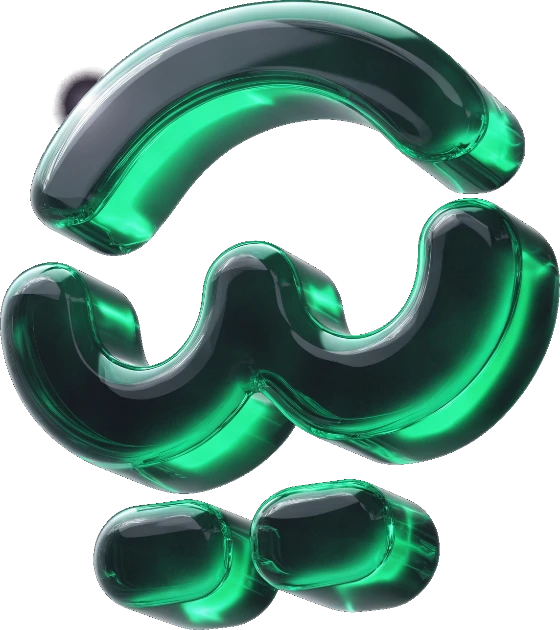
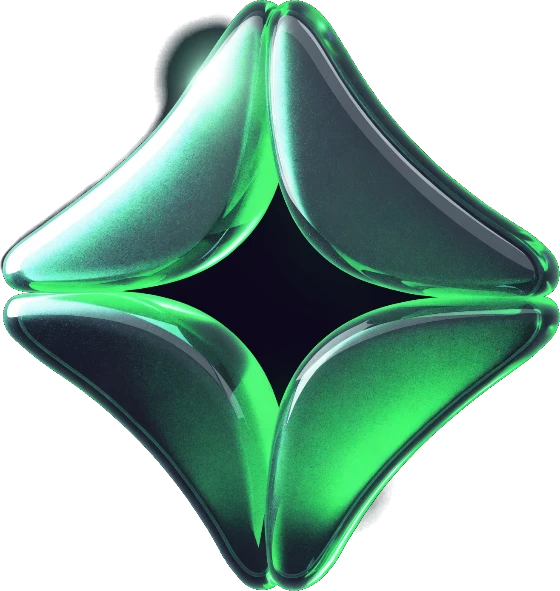
Icone de vendas com a forma do Pix, selo fora e o celular no lugar
O CARRINHO SAIU. No lugar entra a forma que o cliente reconhece como pagamento
instantaneo: o losango de quatro petalas, renderizado em vidro esmeralda como
os outros. E a mesma geometria do icone de Pix que o app ja usa nos atalhos da
dashboard, agora em 3D — quem olha o banner e o atalho ve a mesma coisa.

O SELO DA NUVEMSHOP saiu do banner de Integracoes, como pedido.

E DOIS PROBLEMAS DO CELULAR, medidos antes de mexer:

A PECA OCUPAVA METADE DO CARTAO. Em 375px o cartao tem 319 de largura e a peca
estava com 144 a 168 — de 45% a 53%. Num banner a arte e tempero: o assunto e o
texto e o botao. Metade da largura faz o objeto virar o assunto, e era isso que
estava estranho. Em 118px de altura ela ocupa 35% a 42% e acompanha o texto em
vez de disputar com ele.

UMA DELAS NASCIA SEM LARGURA. As pecas sao lazy e dimensionadas por altura com
largura automatica: enquanto a imagem nao chega, o navegador nao sabe a
largura. Medi a de Tracking em 21x149 no instante da troca — ela nascia fina e
pulava para o tamanho certo ao carregar. Agora cada arte declara largura e
altura reais no HTML e o espaco e reservado desde o primeiro quadro. E a mesma
regra de sempre para imagem; aqui aparecia em movimento porque o carrossel
troca de slide.

De passagem, a frase mais longa dos cinco estourava o cartao: banner nao e
lugar de paragrafo, e se nao cabe em tres linhas esta comprida demais.

diff --git a/public/app/app.js b/public/app/app.js
@@ -3061,31 +3061,33 @@ function periodoIntervalo() {
 const BANNERS = [
   {
     tag: 'Integrações', fundo: 'integracoes',
-    peca: 'balao', selo: '/assets/logos/nuvemshop.webp',
+    peca: 'balao', pw: 640, ph: 644,
     titulo: 'Tudo o que você já usa, conversando',
-    texto: 'Nuvemshop, Meta Ads e webhooks: o que acontece nas suas ferramentas vira mensagem no WhatsApp.',
+    // A frase mais longa dos cinco estourava o cartao no celular. Banner nao
+    // e lugar de paragrafo: se nao cabe em tres linhas, esta comprida demais.
+    texto: 'Nuvemshop, Meta Ads e webhooks viram mensagem no WhatsApp, sem você fazer nada.',
     acao: 'Ver integrações', href: '#/integrations'
   },
   {
-    tag: 'Ligação', fundo: 'ligacao', peca: 'ic-ligacao',
+    tag: 'Ligação', fundo: 'ligacao', peca: 'ic-ligacao', pw: 560, ph: 677,
     titulo: 'Ligue de dentro da conversa',
     texto: 'Chamada de voz pelo WhatsApp sem sair do atendimento, com o histórico no mesmo lugar.',
     acao: 'Abrir Conversas', href: '#/inbox'
   },
   {
-    tag: 'Indique e ganhe', fundo: 'indique', peca: 'ic-indique',
+    tag: 'Indique e ganhe', fundo: 'indique', peca: 'ic-indique', pw: 560, ph: 594,
     titulo: 'Indique a Koonfy e receba',
     texto: 'Comissão automática em toda assinatura de quem você indicar. O link é seu e o saldo cai na carteira.',
     acao: 'Ver meu link', href: '#/afiliacao'
   },
   {
-    tag: 'Vender com a Koonfy', fundo: 'vender', peca: 'ic-vender',
+    tag: 'Vender com a Koonfy', fundo: 'vender', peca: 'ic-vender', pw: 560, ph: 591,
     titulo: 'Venda dentro do WhatsApp',
     texto: 'Cobrança por Pix e cartão no chat, checkout próprio e o dinheiro na sua conta.',
     acao: 'Ver Pagamentos', href: '#/elitepay'
   },
   {
-    tag: 'Tracking', fundo: 'tracking', peca: 'ic-tracking',
+    tag: 'Tracking', fundo: 'tracking', peca: 'ic-tracking', pw: 560, ph: 588,
     titulo: 'Saiba de onde vem cada venda',
     texto: 'Links rastreáveis e pixels: a campanha que traz cliente aparece no relatório, com nome e número.',
     acao: 'Abrir Tracking', href: '#/tracking'
@@ -3106,9 +3108,11 @@ function bannersHtml() {
                    ${i ? 'loading="lazy"' : ''} decoding="async">
               <span class="bnr-veu"></span>
             </div>
+            <!-- Largura e altura reais: sem elas, uma peça ainda não
+                 carregada nasce sem largura e pula ao chegar. -->
             <img class="bnr-3d" src="/assets/banner-${b.peca}.webp" alt="" aria-hidden="true"
+                 width="${b.pw}" height="${b.ph}"
                  ${i ? 'loading="lazy"' : ''} decoding="async">
-            ${b.selo ? `<img class="bnr-selo" src="${b.selo}" alt="" aria-hidden="true" loading="lazy" decoding="async">` : ''}
             <div class="bnr-txt">
               <span class="bnr-tag">${esc(b.tag)}</span>
               <h3>${esc(b.titulo)}</h3>

diff --git a/public/app/style.css b/public/app/style.css
@@ -4950,15 +4950,6 @@ body.has-tabbar .ckb { height: calc(100dvh - var(--topbar-h) - var(--tabbar-h));
   50% { translate: 0 -9px; }
 }
 
-/* SELO DA MARCA PARCEIRA (a logo da Nuvemshop, por exemplo). Fica pequeno e
-   no canto: é uma menção, não o assunto do banner. */
-.bnr-selo {
-  position: absolute; z-index: 4; right: 6%; bottom: 10px; width: 46px; height: 46px;
-  border-radius: 12px; box-shadow: 0 10px 22px rgba(0,0,0,.4);
-  background: #fff; padding: 6px;
-}
-@media (max-width: 620px) { .bnr-selo { width: 36px; height: 36px; right: 4%; bottom: 6px; } }
-
 .bnr-pontos { display: flex; gap: 7px; justify-content: center; margin-top: 12px; }
 .bnr-pontos button {
   width: 7px; height: 7px; padding: 0; border: 0; border-radius: 50%;
@@ -4991,18 +4982,20 @@ body.has-tabbar .ckb { height: calc(100dvh - var(--topbar-h) - var(--tabbar-h));
   /* Mais alto no celular: com a largura do texto reduzida para nao bater na
      peca, a mesma frase ocupa quatro linhas em vez de duas — e o cartao
      precisa caber o texto, nao o contrario. */
-  .bnr { height: 250px; }
-  /* O texto para antes do canto da peça: um não invade o outro. */
-  .bnr-txt { max-width: 64%; padding: 0 18px; }
+  .bnr { height: 224px; }
+  /* Com a peça menor, o texto recupera largura e a frase volta a caber em
+     três linhas em vez de quatro. */
+  .bnr-txt { max-width: 72%; padding: 0 18px; }
   .bnr-txt h3 { font-size: 16px; }
   .bnr-txt p { font-size: 12.5px; }
   /* Numa tela estreita a peça e o texto disputam o mesmo espaço, e quem
      perde é o texto — que é o que a pessoa precisa ler. Ela vira marca
      d'água no canto, e a segunda some: duas peças em 375px viram sujeira. */
-  /* A peça vai para o canto de baixo, onde só existe fundo, e sai um pouco
-     pela direita: o corte na borda é o que mantém a sensação de volume numa
-     tela onde ela não cabe inteira. */
-  .bnr-3d { height: 150px; width: auto; right: -8%; top: auto; bottom: -10px; opacity: .9; }
+  /* TEMPERO, NÃO ASSUNTO. Com 150px de altura a peça ocupava metade da
+     largura do cartão e virava o assunto do banner. Em 118 ela acompanha o
+     texto em vez de disputar com ele, e continua saindo pela direita e por
+     baixo — que é o que dá o volume. */
+  .bnr-3d { height: 118px; width: auto; right: -5%; top: auto; bottom: -8px; opacity: .92; }
   .bnr-3d.mini { display: none; }
   .bnr-wrap { margin-bottom: 16px; }
 }
